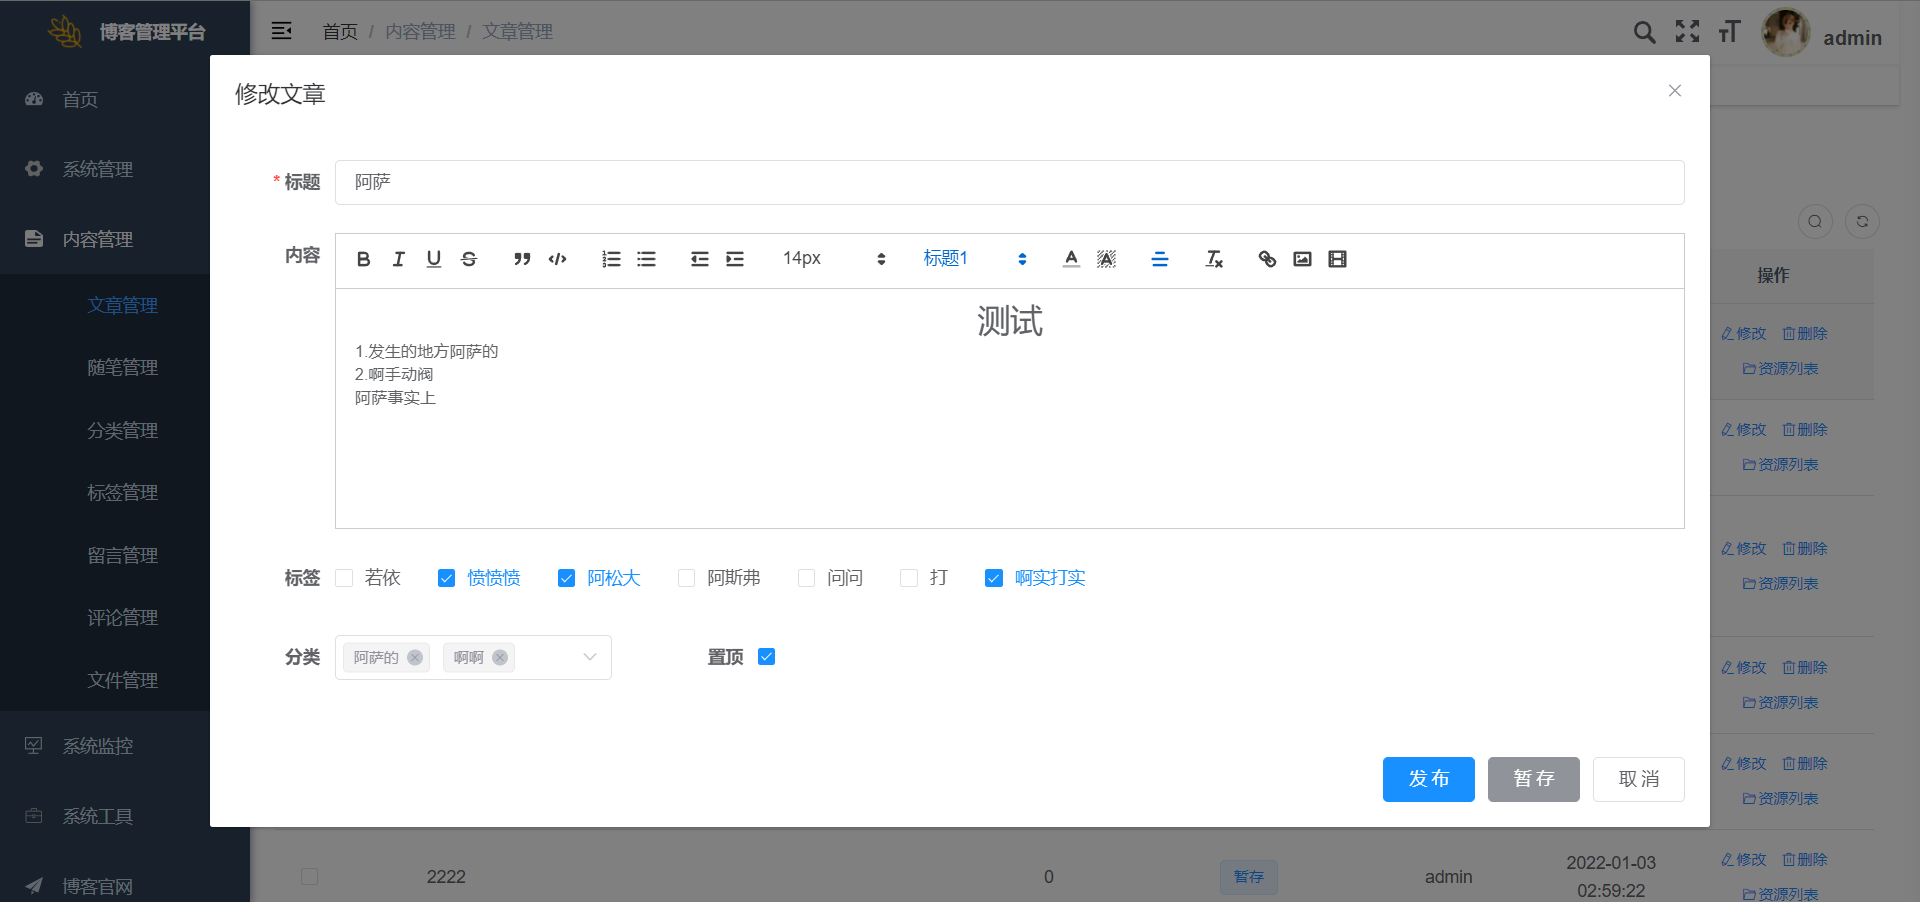
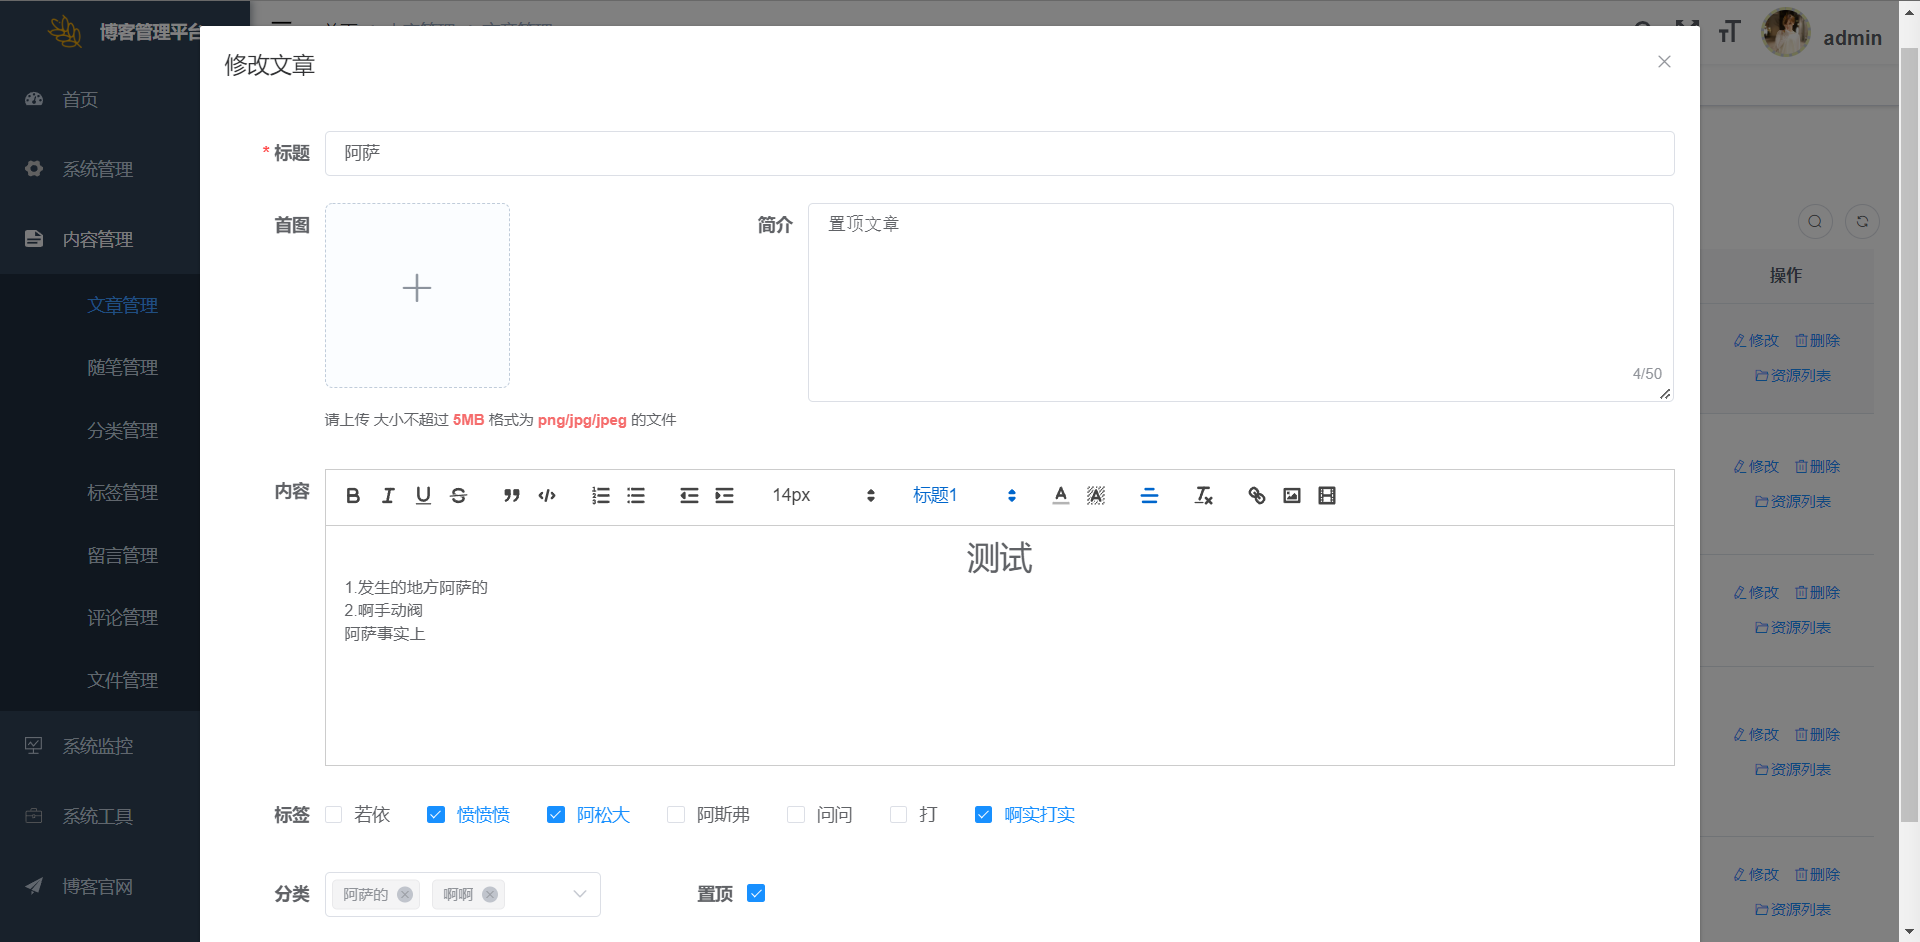
新增功能： 文章管理支持上传首页图片、文章简介 bug修复： 修改首页分页插件无响应问题

diff --git a/ruoyi-ui/src/views/cms/components/cmsIndex.vue b/ruoyi-ui/src/views/cms/components/cmsIndex.vue
@@ -12,9 +12,20 @@
         </div>
         <el-row type="flex" align="middle" style="flex-wrap: wrap" :gutter="20" v-for="blog in blogList" :key="blog.id"
           shadow="never" class="blog-content">
-          <el-col :xs="24" :sm="24" style="padding-left: 10px;padding-right: 10px;margin-bottom: 5px;margin-top: -5px;">
+          <el-col class="img" :xs="24" :sm="6">
+            <el-image lazy :src="blog.blogPic" @click="getBlogInfo(blog.id)"></el-image>
+          </el-col>
+          <el-col :xs="24" :sm="18" style="padding-left: 10px;padding-right: 10px;margin-bottom: 5px;margin-top: -5px;">
             <div @click="getBlogInfo(blog.id)">
               <h3><svg-icon icon-class="Topping" v-show="blog.top==1" /> {{blog.title}}</h3>
+              <div style="margin-bottom: 10px;">
+                  <span style="color: rgba(0, 0, 0, .4);"> {{blog.blogDesc}}</span>
+              </div>
+              <div style="margin-bottom: 10px;">
+                <el-tag effect="plain" size="mini" v-for="tag in blog.tags" :key="tag.tagId" type="success">
+                  {{tag.tagName}}
+                </el-tag>
+              </div>
               <div class="blog-info">
                 <div class="user-info">
                   <i class="el-icon-user"></i>
@@ -33,18 +44,14 @@
                     {{tag.typeName}}
                   </el-tag>
                 </div>
-                <div class="blog-tag">
-                  <el-tag effect="plain" size="mini" v-for="tag in blog.tags" :key="tag.tagId" type="success">
-                    {{tag.tagName}}
-                  </el-tag>
-                </div>
+
               </div>
             </div>
           </el-col>
         </el-row>
+        <pagination v-show="total>0" :total="total" :page.sync="queryParams.pageNum" :limit.sync="queryParams.pageSize" background layout="total, sizes, prev, pager, next, jumper" @pagination="getBlogList"  style="margin-bottom: 30px;float: right;margin-right: 10px;"/>
       </el-card>
-      <el-pagination v-show="total>0" :total="total" :page.sync="queryParams.pageNum" :limit.sync="queryParams.pageSize"
-        background layout="total, sizes, prev, pager, next, jumper" hide-on-single-page @pagination="getBlogList" />
+
     </el-col>
     <el-col :xs="24" :sm="5">
       <el-card style="background-color: rgba(255,255,255,0.9)" class=" right-item">
@@ -154,6 +161,7 @@
           top: null,
           views: null,
           status: null,
+          createBy: null
         },
         // 总条数
         total: 0,
@@ -207,10 +215,22 @@
           target: ".left-item"
         });
         cmsListBlog(this.queryParams).then(response => {
-          this.blogList = response.rows;
+          this.blogList = this.picSrc(response.rows);
           this.total = response.total;
           loadingInstance.close();
         });
+      },
+      //首图地址修改
+      picSrc(blogList){
+        for (let i = 0; i < blogList.length; i++) {
+          let blogInfo = blogList[i];
+          if (blogInfo.blogPic.length > 0) {
+            blogList[i].blogPic = process.env.VUE_APP_BASE_API + blogInfo.blogPic
+          }else{
+            blogList[i].blogPic = '/errorImg.jpg'
+          }
+        };
+        return blogList
       },
       // 开始进入主页
       startRead() {
@@ -288,7 +308,7 @@
       async selectType(cmsType) {
         this.typeId = cmsType.typeId
         cmsListByTypeId(this.typeId).then(response => {
-          this.blogList = response.rows;
+          this.blogList = this.picSrc(response.rows);
           this.total = response.total;
           // this.totalcount = res.data.totalElements
           this.selectMethod = '分类: ' + cmsType.typeName
@@ -299,7 +319,7 @@
       async selectTag(tag) {
         this.tagId = tag.tagId
         cmsListByTagId(this.tagId).then(response => {
-          this.blogList = response.rows;
+          this.blogList = this.picSrc(response.rows);
           this.total = response.total;
           // this.totalcount = res.data.totalElements
           this.selectMethod = '标签: ' + tag.tagName

diff --git a/ruoyi-ui/src/views/cms/blog/index.vue b/ruoyi-ui/src/views/cms/blog/index.vue
@@ -41,6 +41,16 @@
       :row-class-name="tableRowClassName">
       <el-table-column type="selection" width="55" align="center" />
       <!-- <el-table-column label="ID" align="center" prop="id" /> -->
+      <el-table-column label="首图预览" align="center" prop="blogPic" >
+        <template slot-scope="scope">
+          <el-image
+              style="width: 120px;height: 60px;"
+              :src="scope.row.blogPic"
+              lazy
+              :preview-src-list="[scope.row.blogPic]">
+            </el-image>
+        </template>
+      </el-table-column>
       <el-table-column label="标题" align="center" prop="title" />
       <!-- <el-table-column label="内容" align="center" prop="content" /> -->
       <!-- <el-table-column label="置顶" align="center" prop="top" /> -->
@@ -88,6 +98,18 @@
         <el-form-item label="标题" prop="title">
           <el-input v-model="form.title" placeholder="请输入标题" />
         </el-form-item>
+        <el-row>
+          <el-col :span="8">
+            <el-form-item label="首图">
+              <imageUpload v-model="form.blogPic" :limit="1" />
+            </el-form-item>
+          </el-col>
+          <el-col :span="16">
+            <el-form-item label="简介">
+              <el-input type="textarea" v-model="form.blogDesc" :autosize="{ minRows: 7, maxRows: 7}" maxlength="50" show-word-limit placeholder="请输入简介" />
+            </el-form-item>
+          </el-col>
+        </el-row>
         <el-form-item label="内容">
           <cmsEditor v-model="form.content" @getFileId="getFileId" :min-height="192" />
         </el-form-item>
@@ -160,7 +182,8 @@
     getBlog,
     delBlog,
     addBlog,
-    updateBlog
+    updateBlog,
+    cancelBlog
   } from "@/api/cms/blog";
   import {
     delFileInfo
@@ -244,6 +267,14 @@
       getList() {
         this.loading = true;
         listBlog(this.queryParams).then(response => {
+          for (let i = 0; i < response.rows.length; i++) {
+            let blogInfo = response.rows[i];
+            if (blogInfo.blogPic.length > 0) {
+              response.rows[i].blogPic = process.env.VUE_APP_BASE_API + blogInfo.blogPic
+            }else{
+              response.rows[i].blogPic = '/errorImg.jpg'
+            }
+          };
           this.blogList = response.rows;
           this.total = response.total;
           this.loading = false;
@@ -261,6 +292,7 @@
             delFileInfo(fileids);
           };
           this.fileIds.length = 0;
+          cancelBlog(this.form).then(response => {});
           this.top = false;
           this.open = false;
           this.reset();
@@ -280,6 +312,8 @@
           top: "0",
           views: null,
           status: "0",
+          blogDesc: null,
+          blogPic: null,
           tagIds: [],
           typeIds: []
         };

diff --git a/ruoyi-ui/src/views/cms/Footer.vue b/ruoyi-ui/src/views/cms/Footer.vue
@@ -1,6 +1,6 @@
 <template>
     <div class="footer">
-      <span style="color: #FFFFFF;line-height:40px;font-size: 12px;">Copyright © 2018-2022 Ning All Rights Reserved.</span>
+      <span style="color: #FFFFFF;line-height:40px;font-size: 12px;">Copyright © 2021-2025 Ning All Rights Reserved.</span>
     </div>
 </template>
 

diff --git a/ruoyi-ui/src/api/cms/blog.js b/ruoyi-ui/src/api/cms/blog.js
@@ -130,3 +130,12 @@ export function delBlog(id) {
     method: 'delete'
   })
 }
+
+// 取消按钮-删除首图
+export function cancelBlog(data) {
+  return request({
+    url: '/cms/blog/cancel',
+    method: 'post',
+    data: data
+  })
+}

diff --git a/ruoyi-cms/src/main/java/com/ruoyi/cms/blog/controller/CmsBlogController.java b/ruoyi-cms/src/main/java/com/ruoyi/cms/blog/controller/CmsBlogController.java
@@ -4,6 +4,7 @@ import java.util.List;
 import java.util.Set;
 import javax.servlet.http.HttpServletResponse;
 
+import com.ruoyi.cms.fileInfo.service.ISysFileInfoService;
 import com.ruoyi.cms.tag.domain.CmsTag;
 import com.ruoyi.cms.tag.service.ICmsTagService;
 import com.ruoyi.cms.type.domain.CmsType;
@@ -53,6 +54,9 @@ public class CmsBlogController extends BaseController
 
     @Autowired
     private SysPermissionService permissionService;
+
+    @Autowired
+    private ISysFileInfoService sysFileInfoService;
 
     /**
      * 首页查询文章列表
@@ -221,6 +225,18 @@ public class CmsBlogController extends BaseController
     public AjaxResult edit(@RequestBody CmsBlog cmsBlog)
     {
         cmsBlog.setUpdateBy(getUsername());
+        //删除原首图
+        CmsBlog oldBlog = cmsBlogService.selectCmsBlogById(cmsBlog.getId());
+        if (cmsBlog.getBlogPic().isEmpty()||!cmsBlog.getBlogPic().equals(oldBlog.getBlogPic())){
+            if(!oldBlog.getBlogPic().isEmpty()){
+                String blogPic = oldBlog.getBlogPic();
+                if (blogPic!=null&&!"".equals(blogPic)){
+                    int newFileNameSeparatorIndex = blogPic.lastIndexOf("/");
+                    String FileName = blogPic.substring(newFileNameSeparatorIndex + 1).toLowerCase();
+                    sysFileInfoService.deleteSysFileInfoByFileObjectName(FileName);
+                }
+            }
+        }
         return toAjax(cmsBlogService.updateCmsBlog(cmsBlog));
     }
 
@@ -232,6 +248,44 @@ public class CmsBlogController extends BaseController
 	@DeleteMapping("/{ids}")
     public AjaxResult remove(@PathVariable Long[] ids)
     {
+        //删除原首图
+        for (Long id : ids) {
+            CmsBlog oldBlog = cmsBlogService.selectCmsBlogById(id);
+            if(!oldBlog.getBlogPic().isEmpty()){
+                String blogPic = oldBlog.getBlogPic();
+                if (blogPic!=null&&!"".equals(blogPic)){
+                    int newFileNameSeparatorIndex = blogPic.lastIndexOf("/");
+                    String FileName = blogPic.substring(newFileNameSeparatorIndex + 1).toLowerCase();
+                    sysFileInfoService.deleteSysFileInfoByFileObjectName(FileName);
+                }
+            }
+        }
         return toAjax(cmsBlogService.deleteCmsBlogByIds(ids));
+    }
+
+    /**
+     * 取消按钮-删除首图
+     */
+    @PreAuthorize("@ss.hasPermi('cms:blog:edit')")
+    @PostMapping("/cancel")
+    public AjaxResult cancel(@RequestBody CmsBlog cmsBlog)
+    {
+        String blogPic = cmsBlog.getBlogPic();
+        if (blogPic!=null&&!"".equals(blogPic)){
+            Long blogId = cmsBlog.getId();
+            if (blogId==null){
+                int newFileNameSeparatorIndex = blogPic.lastIndexOf("/");
+                String FileName = blogPic.substring(newFileNameSeparatorIndex + 1).toLowerCase();
+                sysFileInfoService.deleteSysFileInfoByFileObjectName(FileName);
+            }else {
+                String Pic = cmsBlogService.selectCmsBlogById(blogId).getBlogPic();
+                if (!blogPic.equals(Pic)){
+                    int newFileNameSeparatorIndex = blogPic.lastIndexOf("/");
+                    String FileName = blogPic.substring(newFileNameSeparatorIndex + 1).toLowerCase();
+                    sysFileInfoService.deleteSysFileInfoByFileObjectName(FileName);
+                }
+            }
+        }
+        return toAjax(1);
     }
 }

diff --git a/ruoyi-cms/src/main/java/com/ruoyi/cms/blog/domain/CmsBlog.java b/ruoyi-cms/src/main/java/com/ruoyi/cms/blog/domain/CmsBlog.java
@@ -59,6 +59,14 @@ public class CmsBlog extends BaseEntity {
     @Excel(name = "状态", readConverterExp = "0=暂存,1=发布")
     private String status;
 
+    /** 首页图片 */
+    @Excel(name = "首页图片")
+    private String blogPic;
+
+    /** 简介 */
+    @Excel(name = "简介")
+    private String blogDesc;
+
     /**
      * 分类
      */
@@ -163,6 +171,22 @@ public class CmsBlog extends BaseEntity {
         this.types = types;
     }
 
+    public String getBlogPic() {
+        return blogPic;
+    }
+
+    public void setBlogPic(String blogPic) {
+        this.blogPic = blogPic;
+    }
+
+    public String getBlogDesc() {
+        return blogDesc;
+    }
+
+    public void setBlogDesc(String blogDesc) {
+        this.blogDesc = blogDesc;
+    }
+
     @Override
     public String toString() {
         return new ToStringBuilder(this, ToStringStyle.MULTI_LINE_STYLE)
@@ -181,6 +205,8 @@ public class CmsBlog extends BaseEntity {
                 .append("tagIds", getTagIds())
                 .append("tags", getTags())
                 .append("types", getTypes())
+                .append("blogPic", getBlogPic())
+                .append("blogDesc", getBlogDesc())
                 .toString();
     }
 }
